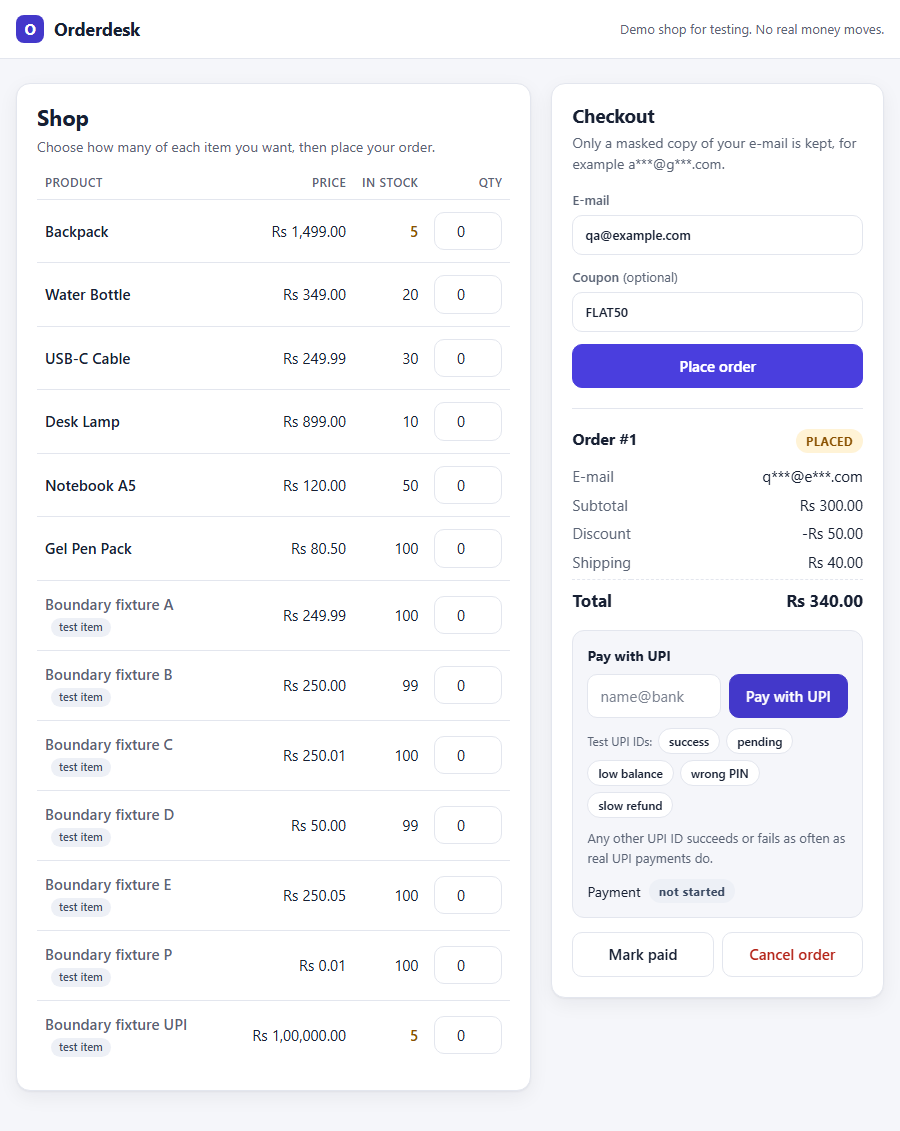
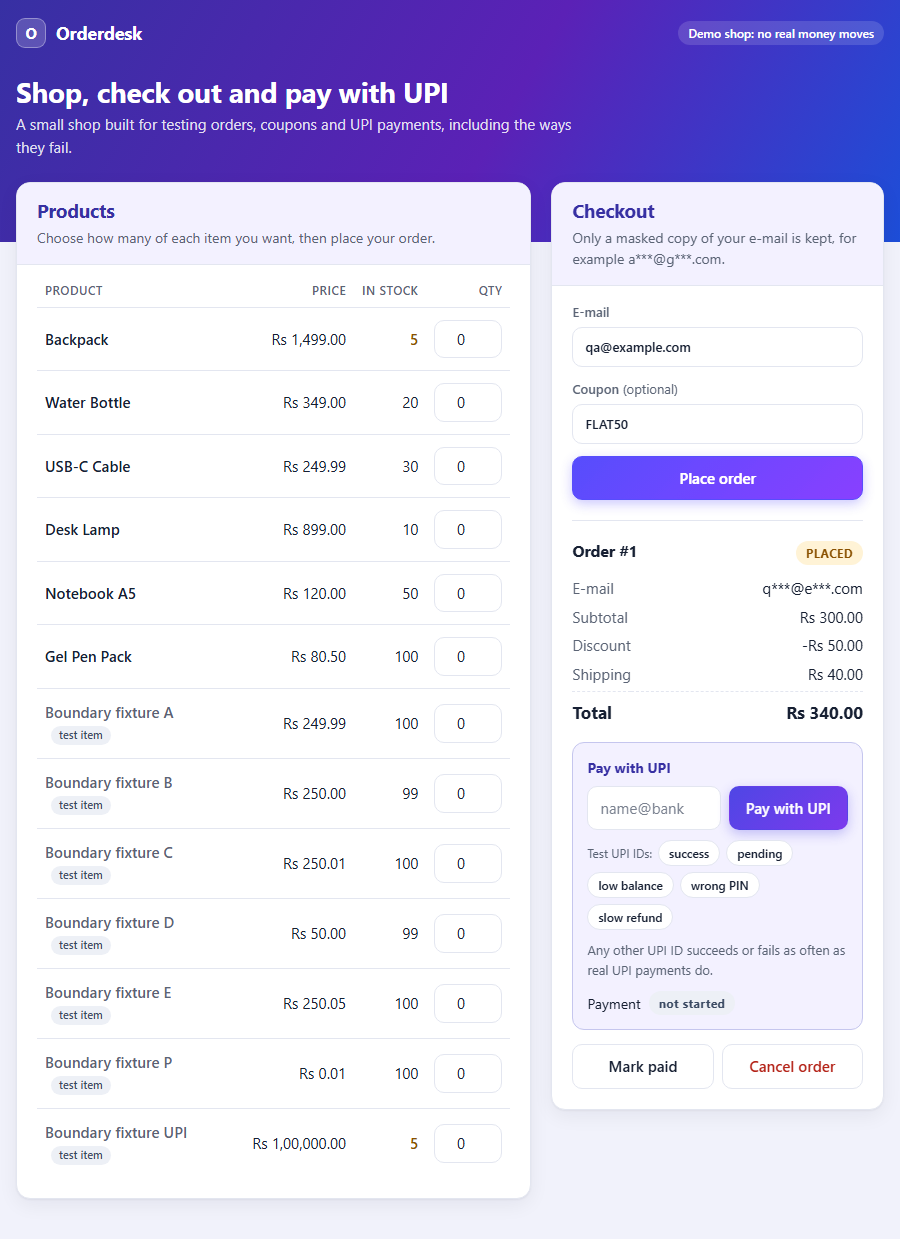
Give the checkout page colour: a gradient band, tinted card headers, gradient buttons

diff --git a/app/static/index.html b/app/static/index.html
@@ -6,8 +6,9 @@
 <title>Orderdesk</title>
 <style>
   :root {
-    --bg: #f5f6fa; --card: #ffffff; --ink: #172033; --muted: #5b6475; --line: #e3e6ee;
-    --brand: #4338ca; --brand-ink: #ffffff; --brand-soft: #eef0ff;
+    --bg: #f1f2fb; --card: #ffffff; --ink: #172033; --muted: #5b6475; --line: #e3e6f0;
+    --brand: #4f46e5; --brand-2: #7c3aed; --brand-ink: #ffffff; --brand-soft: #eef0ff;
+    --head: #f3f1ff; --head-ink: #3730a3; --hero: linear-gradient(120deg, #3730a3 0%, #5b21b6 55%, #1d4ed8 100%);
     --ok: #0b6b41; --ok-soft: #e1f5ea; --warn: #8a5100; --warn-soft: #fff3d6;
     --bad: #b42318; --bad-soft: #fdecea; --info: #3b4a63; --info-soft: #edf0f6;
     --radius: 14px; --shadow: 0 1px 2px rgba(16, 24, 40, .05), 0 6px 20px rgba(16, 24, 40, .06);
@@ -15,7 +16,8 @@
   @media (prefers-color-scheme: dark) {
     :root {
       --bg: #0e1220; --card: #161b2b; --ink: #e8ebf3; --muted: #9aa3b5; --line: #2a3145;
-      --brand: #8c86ff; --brand-ink: #0e1220; --brand-soft: #22254a;
+      --brand: #8c86ff; --brand-2: #b18cff; --brand-ink: #0e1220; --brand-soft: #22254a;
+      --head: #1c2040; --head-ink: #c9c6ff; --hero: linear-gradient(120deg, #241f63 0%, #3b1772 55%, #13306e 100%);
       --ok: #62d39c; --ok-soft: #10301f; --warn: #f2b84b; --warn-soft: #33270c;
       --bad: #ff8a80; --bad-soft: #3a1714; --info: #b8c2d6; --info-soft: #222a3d;
     }
@@ -23,18 +25,23 @@
   * { box-sizing: border-box; }
   body { margin: 0; background: var(--bg); color: var(--ink); font: 15px/1.5 system-ui, -apple-system, "Segoe UI", Roboto, Arial, sans-serif; }
   .wrap { max-width: 1040px; margin: 0 auto; padding: 0 16px; }
-  .topbar { background: var(--card); border-bottom: 1px solid var(--line); }
-  .topbar .wrap { display: flex; align-items: center; justify-content: space-between; gap: 4px 16px; min-height: 58px; flex-wrap: wrap; padding-top: 8px; padding-bottom: 8px; }
+  .hero { background: var(--hero); color: #fff; padding: 18px 0 84px; }
+  .brand-row { display: flex; align-items: center; justify-content: space-between; gap: 6px 16px; flex-wrap: wrap; }
   .logo { display: flex; align-items: center; gap: 10px; font-weight: 700; font-size: 18px; letter-spacing: -.01em; }
-  .logo-mark { width: 28px; height: 28px; border-radius: 8px; background: var(--brand); color: var(--brand-ink); display: grid; place-items: center; font-size: 15px; }
-  .tag { color: var(--muted); font-size: 13px; }
-  main.wrap { display: grid; grid-template-columns: minmax(0, 1.55fr) minmax(0, 1fr); gap: 20px; align-items: start; padding-top: 24px; padding-bottom: 40px; }
-  @media (max-width: 860px) { main.wrap { grid-template-columns: minmax(0, 1fr); padding-top: 16px; } }
+  .logo-mark { width: 30px; height: 30px; border-radius: 9px; background: rgba(255, 255, 255, .18); border: 1px solid rgba(255, 255, 255, .35); display: grid; place-items: center; font-size: 15px; }
+  .tag { padding: 3px 10px; border-radius: 999px; background: rgba(255, 255, 255, .14); font-size: 12px; font-weight: 600; }
+  .hero h1 { margin: 26px 0 4px; font-size: 28px; }
+  .hero p { margin: 0; max-width: 560px; color: rgba(255, 255, 255, .85); }
+  main.wrap { display: grid; grid-template-columns: minmax(0, 1.55fr) minmax(0, 1fr); gap: 20px; align-items: start; margin-top: -60px; padding-bottom: 40px; }
+  @media (max-width: 860px) { main.wrap { grid-template-columns: minmax(0, 1fr); } }
   @media (min-width: 861px) { .checkout { position: sticky; top: 16px; } }
-  .card { min-width: 0; background: var(--card); border: 1px solid var(--line); border-radius: var(--radius); box-shadow: var(--shadow); padding: 20px; }
+  .card { min-width: 0; background: var(--card); border: 1px solid var(--line); border-radius: var(--radius); box-shadow: var(--shadow); }
+  .card-head { padding: 16px 20px; border-bottom: 1px solid var(--line); border-radius: var(--radius) var(--radius) 0 0; background: var(--head); }
+  .card-head h2 { color: var(--head-ink); }
+  .card-body { padding: 16px 20px 20px; }
   h1, h2, h3 { margin: 0 0 4px; line-height: 1.25; letter-spacing: -.01em; }
-  h1 { font-size: 22px; } h2 { font-size: 19px; } h3 { font-size: 16px; }
-  .sub { margin: 0 0 16px; color: var(--muted); font-size: 14px; }
+  h2 { font-size: 19px; } h3 { font-size: 16px; }
+  .sub { margin: 0; color: var(--muted); font-size: 14px; }
   table.products { width: 100%; border-collapse: collapse; }
   .products th { padding: 0 8px 8px; border-bottom: 1px solid var(--line); text-align: left; color: var(--muted); font-size: 12px; font-weight: 600; letter-spacing: .04em; text-transform: uppercase; }
   .products td { padding: 12px 8px; border-bottom: 1px solid var(--line); vertical-align: middle; }
@@ -56,7 +63,7 @@
   button { padding: 10px 16px; border: 1px solid var(--line); border-radius: 10px; background: var(--card); color: var(--ink); font: inherit; font-weight: 600; cursor: pointer; }
   button:hover:not(:disabled) { border-color: var(--brand); }
   button:disabled { opacity: .55; cursor: not-allowed; }
-  button.primary { width: 100%; border-color: var(--brand); background: var(--brand); color: var(--brand-ink); }
+  button.primary { width: 100%; border-color: transparent; background: linear-gradient(135deg, var(--brand), var(--brand-2)); color: var(--brand-ink); box-shadow: 0 4px 12px color-mix(in srgb, var(--brand) 30%, transparent); }
   button.primary:hover:not(:disabled) { filter: brightness(1.1); }
   button.danger { color: var(--bad); }
   .hint { margin: 10px 0 0; color: var(--muted); font-size: 13px; }
@@ -73,8 +80,8 @@
   .badge[data-state=PLACED], .badge[data-state=PENDING], .badge[data-state=REFUND_PENDING] { background: var(--warn-soft); color: var(--warn); }
   .badge[data-state=PAID], .badge[data-state=SUCCESS], .badge[data-state=SHIPPED], .badge[data-state=DELIVERED] { background: var(--ok-soft); color: var(--ok); }
   .badge[data-state=FAILED], .badge[data-state=CANCELLED] { background: var(--bad-soft); color: var(--bad); }
-  .pay { padding: 14px; border: 1px solid var(--line); border-radius: 12px; background: var(--bg); }
-  .pay-title { margin: 0 0 8px; font-size: 14px; font-weight: 700; }
+  .pay { padding: 14px; border: 1px solid color-mix(in srgb, var(--brand) 20%, var(--line)); border-radius: 12px; background: var(--head); }
+  .pay-title { margin: 0 0 8px; color: var(--head-ink); font-size: 14px; font-weight: 700; }
   .pay-row { display: flex; gap: 8px; }
   .pay-row input { flex: 1; }
   .pay-row button { width: auto; white-space: nowrap; }
@@ -84,7 +91,8 @@
   .actions { display: flex; gap: 8px; margin-top: 14px; }
   .actions button { flex: 1; }
   @media (max-width: 560px) {
-    .card { padding: 16px; }
+    .card-head, .card-body { padding-left: 16px; padding-right: 16px; }
+    .hero h1 { font-size: 23px; }
     .products thead { display: none; }
     .products tbody tr { display: grid; grid-template-columns: 1fr auto auto; align-items: center; gap: 6px 14px; padding: 12px 0; border-bottom: 1px solid var(--line); }
     .products tbody tr:last-child { border-bottom: 0; }
@@ -96,24 +104,35 @@
 </style>
 </head>
 <body>
-<header class="topbar"><div class="wrap">
-  <div class="logo"><span class="logo-mark" aria-hidden="true">O</span>Orderdesk</div>
-  <div class="tag">Demo shop for testing. No real money moves.</div>
+<header class="hero"><div class="wrap">
+  <div class="brand-row">
+    <div class="logo"><span class="logo-mark" aria-hidden="true">O</span>Orderdesk</div>
+    <div class="tag">Demo shop: no real money moves</div>
+  </div>
+  <h1>Shop, check out and pay with UPI</h1>
+  <p>A small shop built for testing orders, coupons and UPI payments, including the ways they fail.</p>
 </div></header>
 
 <main class="wrap">
   <section class="card" aria-labelledby="shop-title">
-    <h1 id="shop-title">Shop</h1>
-    <p class="sub">Choose how many of each item you want, then place your order.</p>
+    <div class="card-head">
+      <h2 id="shop-title">Products</h2>
+      <p class="sub">Choose how many of each item you want, then place your order.</p>
+    </div>
+    <div class="card-body">
     <table class="products" aria-label="Products">
       <thead><tr><th>Product</th><th class="num">Price</th><th class="num">In stock</th><th class="num">Qty</th></tr></thead>
       <tbody id="products"><tr class="loading"><td colspan="4">Loading the shop…</td></tr></tbody>
     </table>
+    </div>
   </section>
 
   <section class="card checkout" aria-labelledby="checkout-title">
-    <h2 id="checkout-title">Checkout</h2>
-    <p class="sub">Only a masked copy of your e-mail is kept, for example a***@g***.com.</p>
+    <div class="card-head">
+      <h2 id="checkout-title">Checkout</h2>
+      <p class="sub">Only a masked copy of your e-mail is kept, for example a***@g***.com.</p>
+    </div>
+    <div class="card-body">
     <label class="field">E-mail
       <input id="email" data-testid="email-input" type="text" inputmode="email" autocomplete="off" autocapitalize="off" spellcheck="false" placeholder="name@example.com">
     </label>
@@ -156,6 +175,7 @@
         <button class="danger" data-testid="cancel-order">Cancel order</button>
       </div>
     </section>
+    </div>
   </section>
 </main>
 

diff --git a/README.md b/README.md
@@ -56,7 +56,7 @@ The lab adds UPI payment to the checkout through a pretend provider (`app/upi_pr
 ## Results
 Recorded runs, Windows 11, Python 3.12, Chromium via Playwright:
 
-- **Clean build:** `144 passed in 50.35s` ([full log](reports/results-clean-build.txt)).
+- **Clean build:** `144 passed in 50.63s` ([full log](reports/results-clean-build.txt)).
 - **Defect detection:** every seeded defect is caught by at least one test, and the clean build has zero failures ([matrix](reports/defect-matrix.md)).
 
 | Defect | What is wrong | Caught by |
